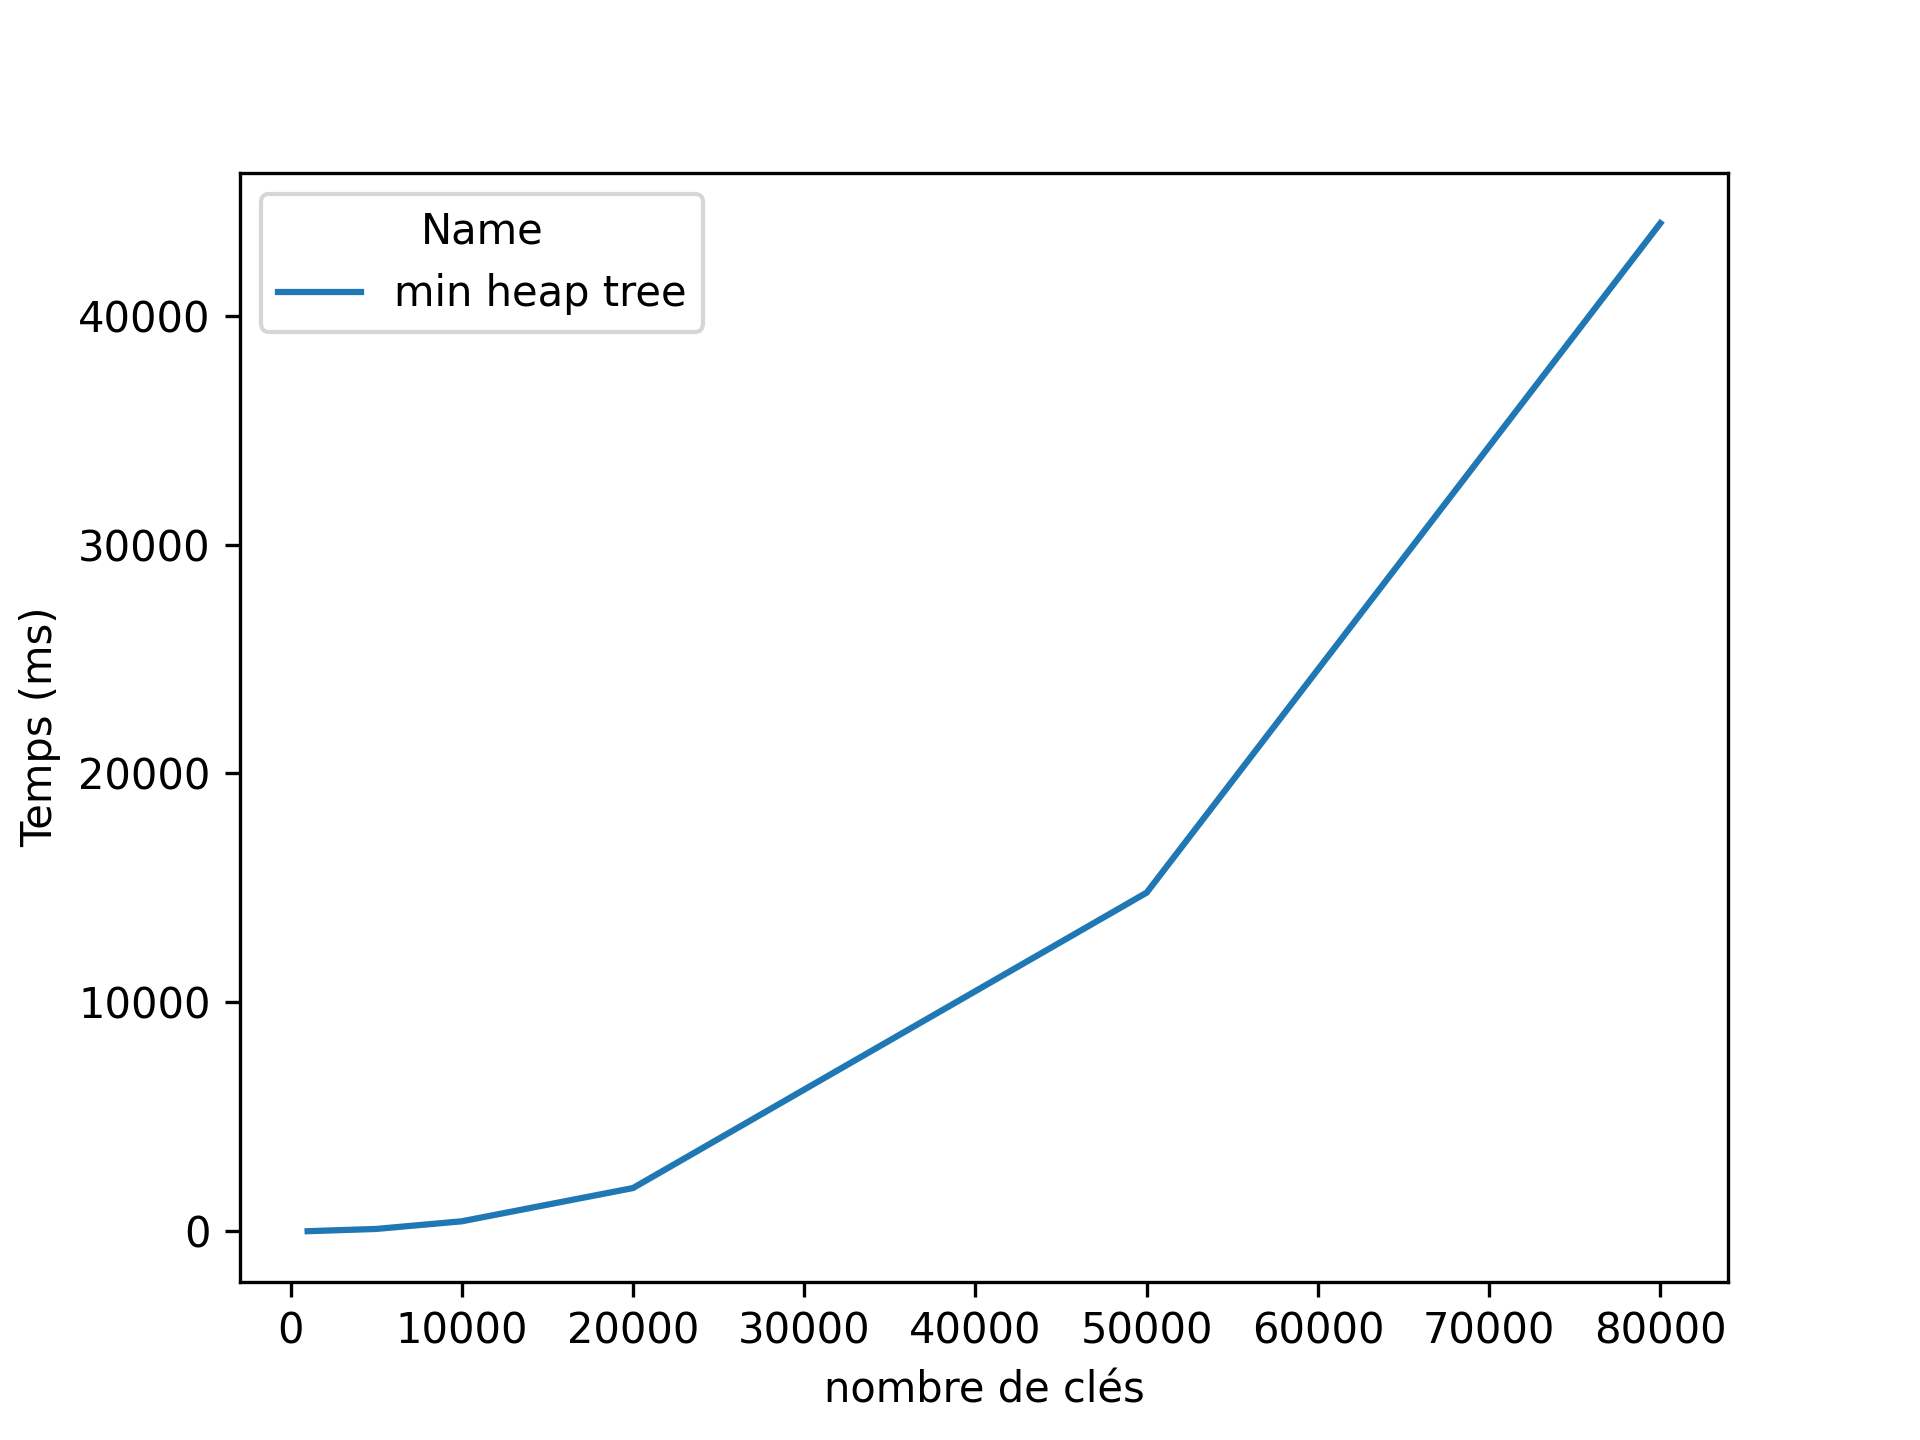
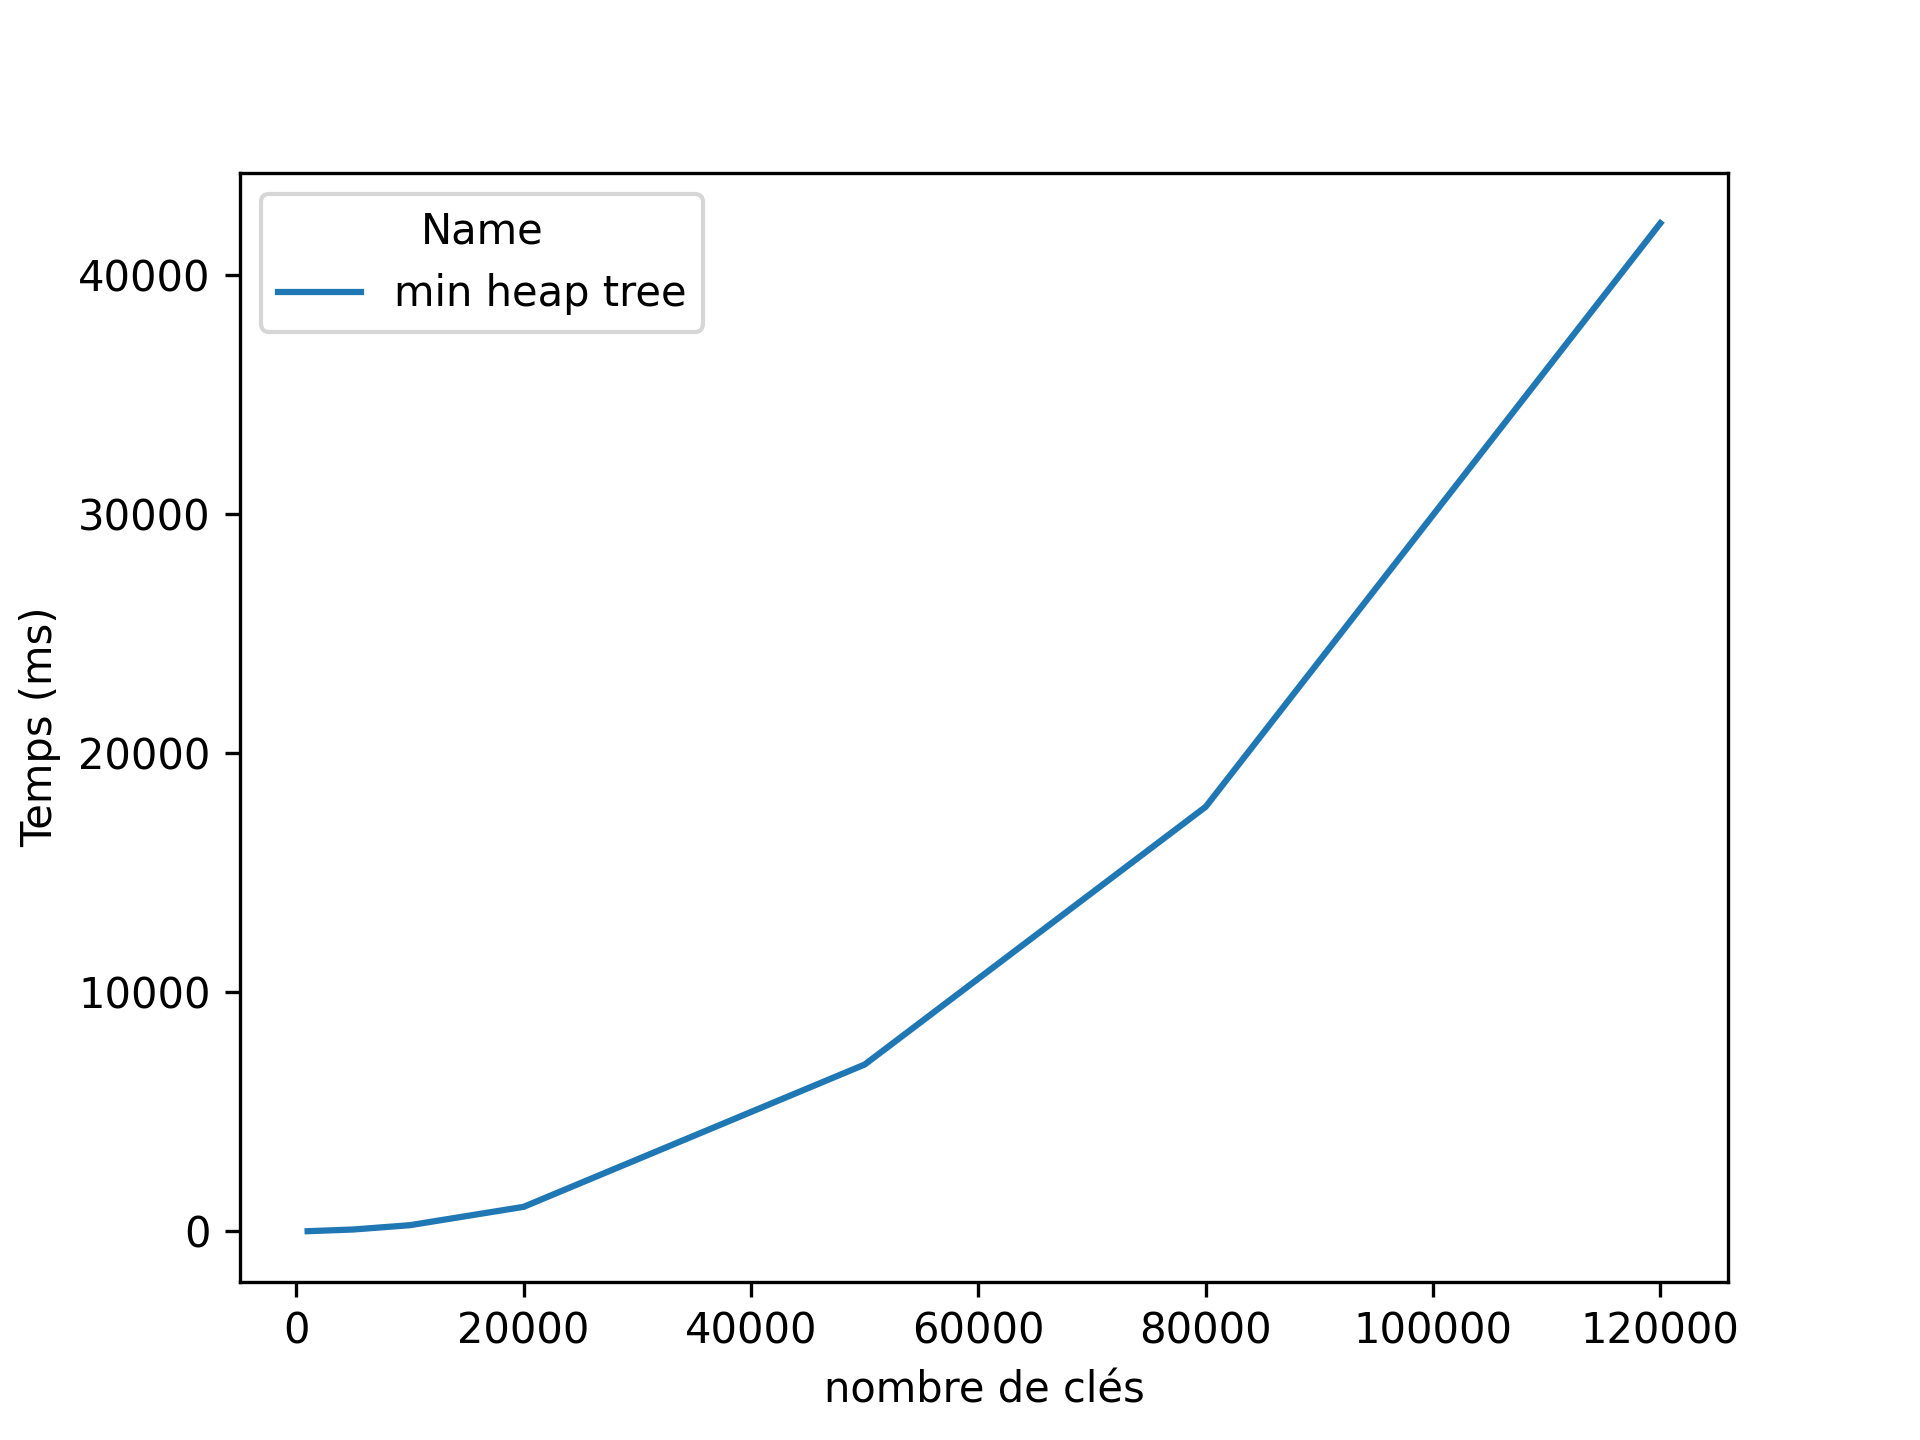
perf: remove loading of keys from the benchmark

diff --git a/lib/min_heap_test.go b/lib/min_heap_test.go
@@ -53,7 +53,7 @@ func getKeysFromFile(path string) []*lib.KeyInt {
 	}
 	defer f.Close()
 
-	var keys []*lib.KeyInt
+	keys := make([]*lib.KeyInt, 0, 80000)
 	s := bufio.NewScanner(f)
 	for s.Scan() {
 		keyInt, err := lib.NewKeyIntFromString(s.Text())
@@ -170,11 +170,6 @@ func benchmarkHeaps(
 		"jeu_3_nb_cles_200000.txt",
 		"jeu_4_nb_cles_200000.txt",
 		"jeu_5_nb_cles_200000.txt",
-		"jeu_1_nb_cles_120000.txt",
-		"jeu_2_nb_cles_120000.txt",
-		"jeu_3_nb_cles_120000.txt",
-		"jeu_4_nb_cles_120000.txt",
-		"jeu_5_nb_cles_120000.txt",
 	}
 
 	for _, entry := range dirEntries {
